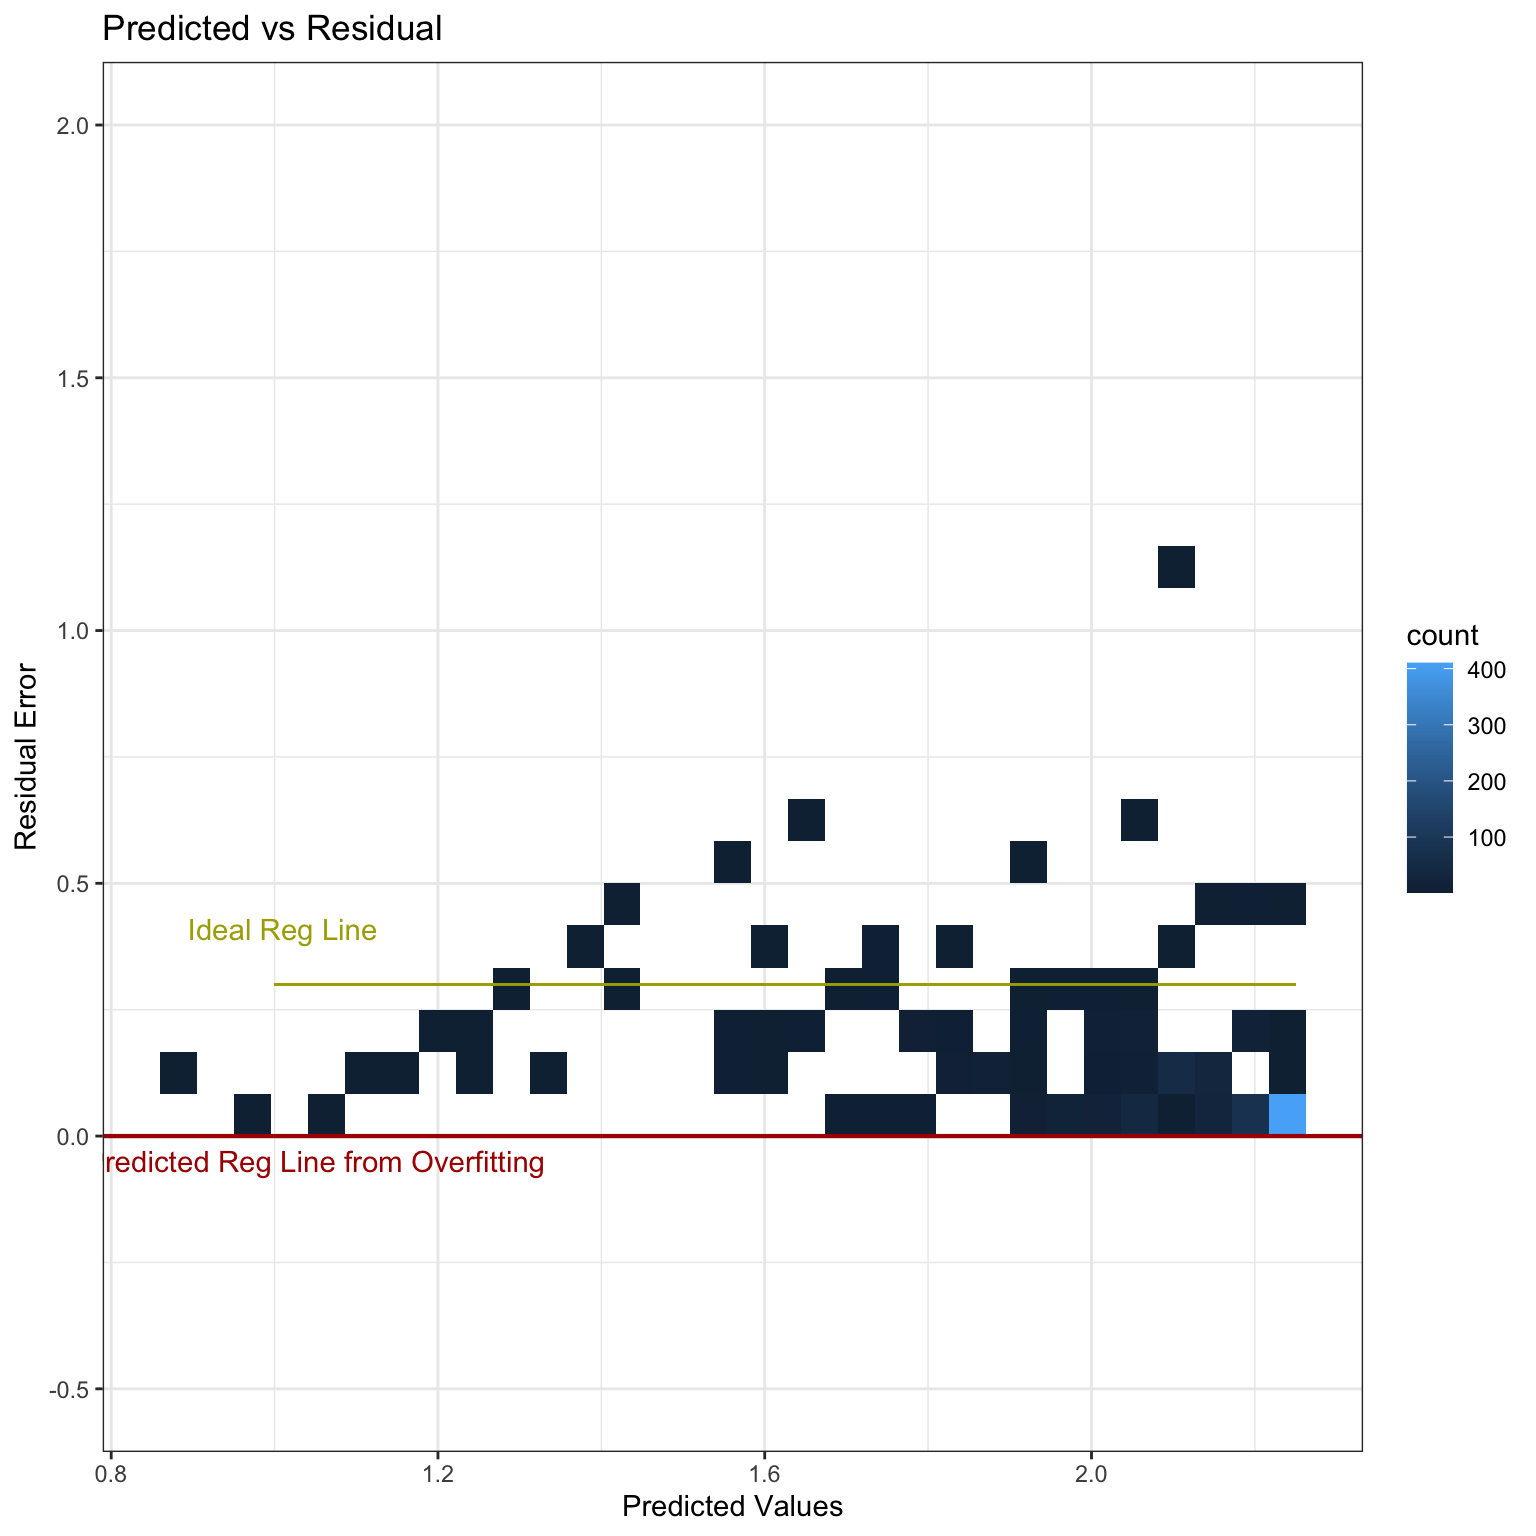
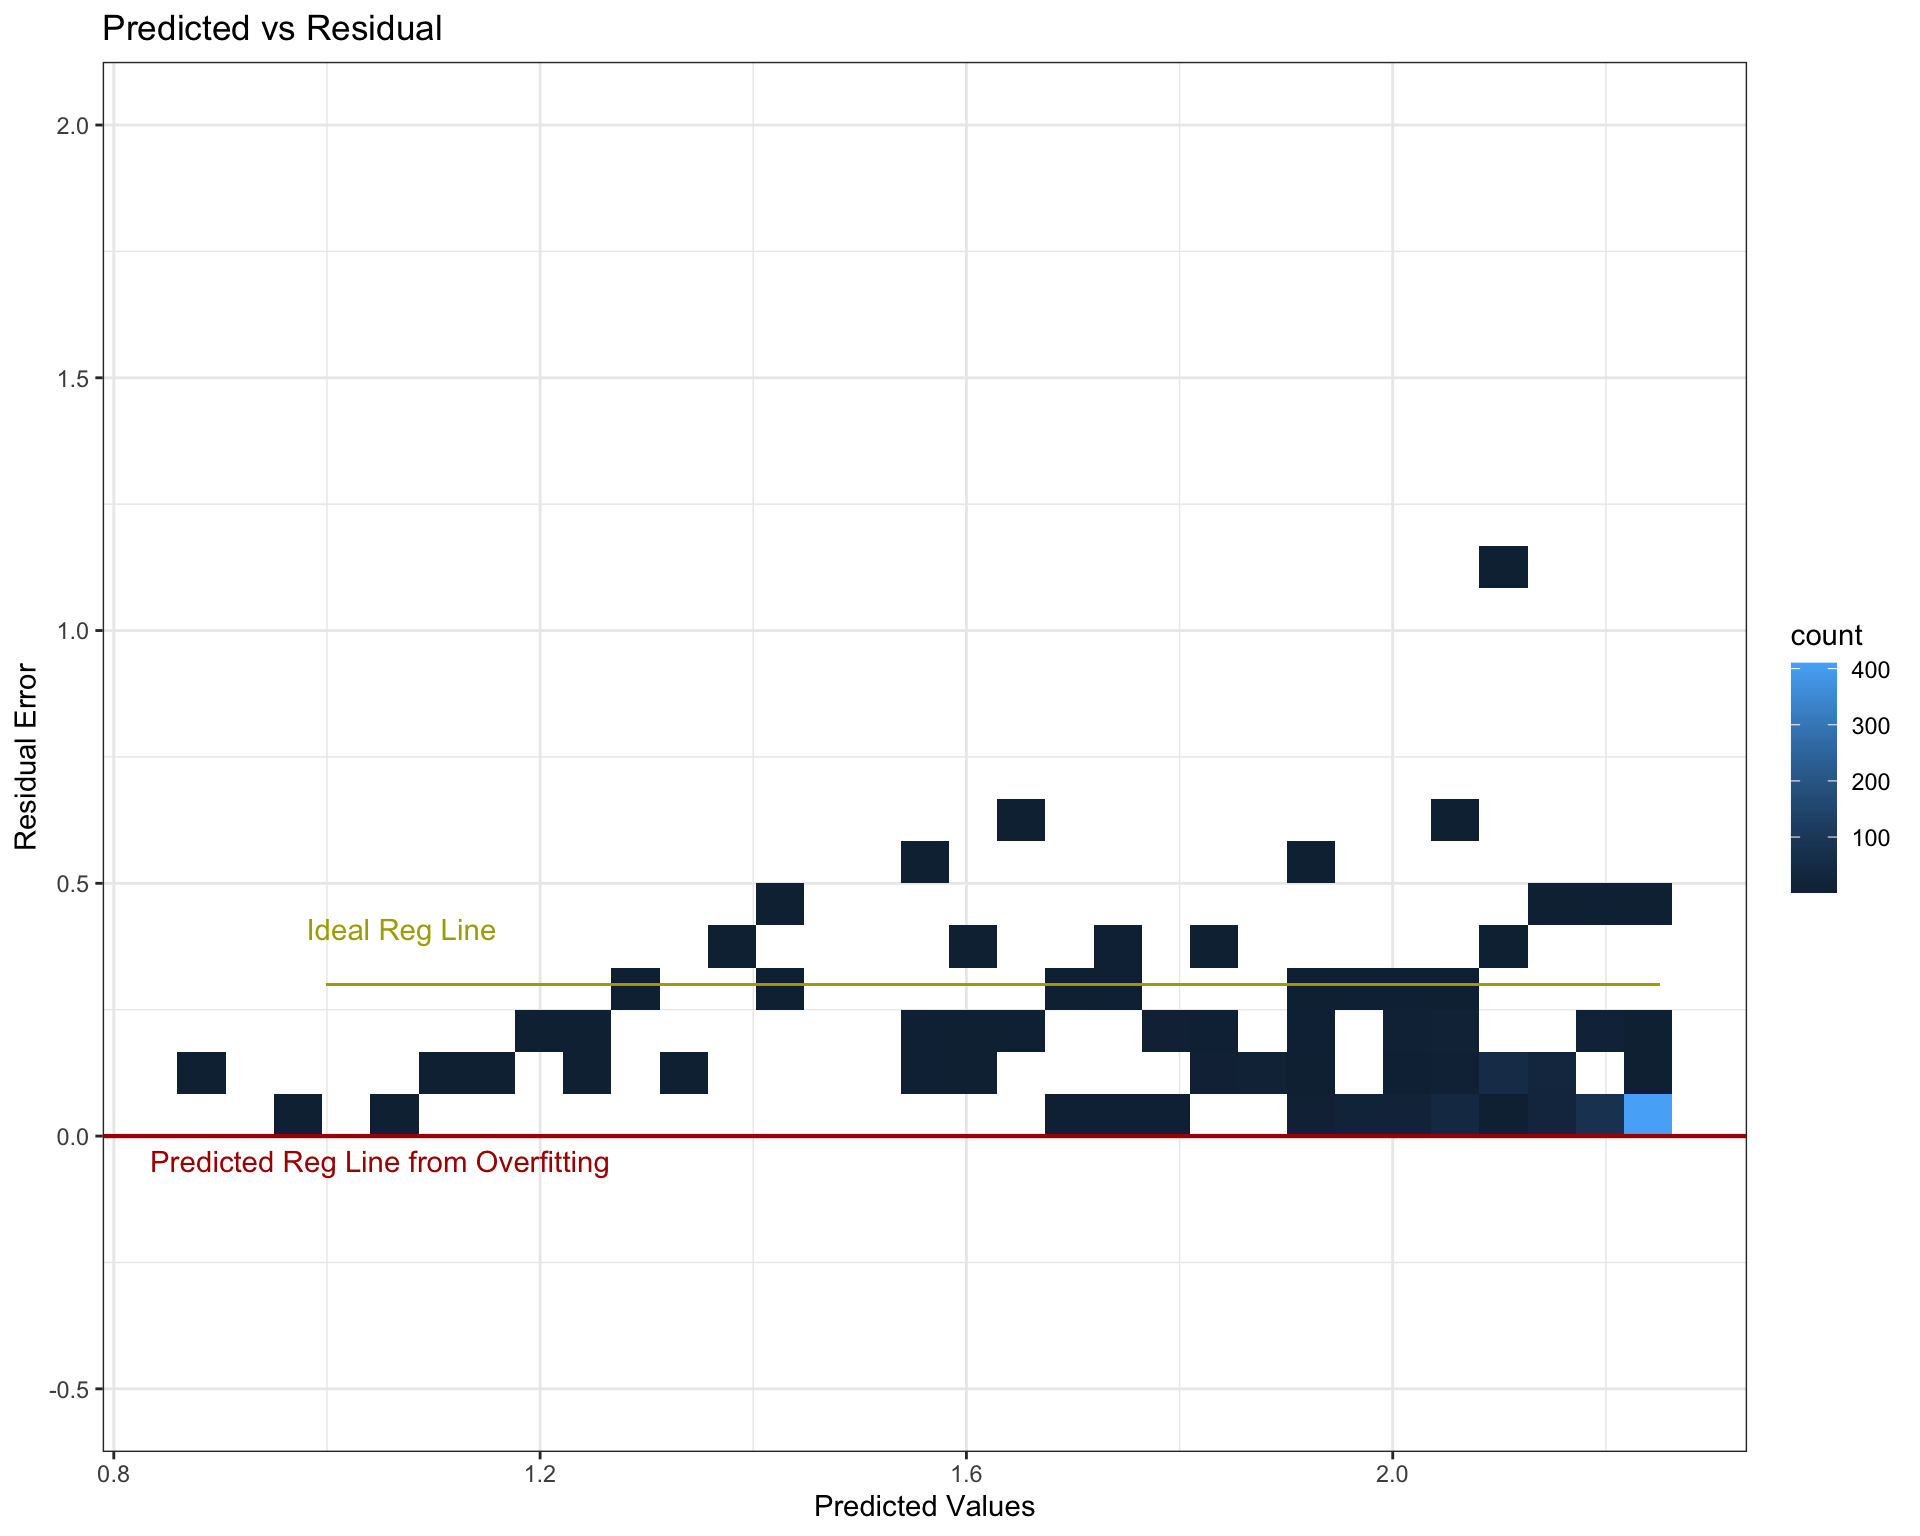
v 0.1.1 patch

diff --git a/docs/ptsatisfaction.html b/docs/ptsatisfaction.html
@@ -550,20 +550,10 @@ Tukey test              0.3667           0.7138</code></pre>
 <h4 class="anchored" data-anchor-id="predicted-vs-residuals">Predicted vs Residuals</h4>
 <p>The first plot is a density bin plot where the x axis are the predicted values and the y axis are the residuals or how much the model was off by. Note that these units are not to scale with the original patient satisfaction scores since the data was transformed for model compatibility. The red line indicates where the error (and data) should be centered. Robust models, and the goal of optimization in the OLS regression, is to fit a line on a cloud of data such that the residual error is zero (if predicted and actual values are the same, the model is 100% accurate and residuals equal zero). This is idealistic and impractical, but nevertheless is what’s being optimized. The red line sits beneath all data points, indicative of severe over fitting. For all patients, the model over predicts patient satisfaction and most likely will for future data sets. The fully optimized estimated regression line most likely runs somewhere where the yellow line is. Not only would the model be more balanced in regard to variance-bias, residual normality is the underlying assumption for OLS normality.</p>
 <div class="cell">
-<div class="sourceCode cell-code" id="cb18"><pre class="sourceCode r code-with-copy"><code class="sourceCode r"><span id="cb18-1"><a href="#cb18-1" aria-hidden="true" tabindex="-1"></a>test_table <span class="sc">%&gt;%</span></span>
-<span id="cb18-2"><a href="#cb18-2" aria-hidden="true" tabindex="-1"></a>  <span class="fu">ggplot</span>()<span class="sc">+</span></span>
-<span id="cb18-3"><a href="#cb18-3" aria-hidden="true" tabindex="-1"></a>  <span class="fu">geom_bin_2d</span>(<span class="fu">aes</span>(<span class="at">x=</span>fittedtest, <span class="at">y =</span> residtest))<span class="sc">+</span></span>
-<span id="cb18-4"><a href="#cb18-4" aria-hidden="true" tabindex="-1"></a>  <span class="fu">scale_y_continuous</span>(<span class="at">limits=</span><span class="fu">c</span>(<span class="sc">-</span>.<span class="dv">5</span>,<span class="dv">2</span>))<span class="sc">+</span></span>
-<span id="cb18-5"><a href="#cb18-5" aria-hidden="true" tabindex="-1"></a>  <span class="fu">geom_hline</span>(<span class="fu">aes</span>(<span class="at">yintercept =</span> <span class="dv">0</span>), <span class="at">color =</span> <span class="st">"#AA0000"</span>, <span class="at">linewidth =</span> .<span class="dv">75</span>)<span class="sc">+</span></span>
-<span id="cb18-6"><a href="#cb18-6" aria-hidden="true" tabindex="-1"></a>  <span class="fu">geom_segment</span>(<span class="at">y =</span> .<span class="dv">3</span>, <span class="at">x =</span> <span class="dv">1</span>, <span class="at">xend =</span> <span class="fl">2.25</span>, <span class="at">color =</span> <span class="st">"#AAAA00"</span>, <span class="at">linewidth =</span> .<span class="dv">25</span>) <span class="sc">+</span></span>
-<span id="cb18-7"><a href="#cb18-7" aria-hidden="true" tabindex="-1"></a>  <span class="fu">annotate</span>(<span class="st">"text"</span>, <span class="at">label =</span> <span class="st">"Ideal Reg Line"</span>, <span class="at">x =</span> <span class="fl">1.01</span>,<span class="at">y=</span>.<span class="dv">41</span>, <span class="at">color =</span> <span class="st">"#AAAA00"</span>)<span class="sc">+</span></span>
-<span id="cb18-8"><a href="#cb18-8" aria-hidden="true" tabindex="-1"></a>  <span class="fu">annotate</span>(<span class="st">"text"</span>, <span class="at">label =</span> <span class="st">"Predicted Reg Line from Overfitting"</span>, <span class="at">x =</span> <span class="fl">1.05</span>,<span class="at">y=</span><span class="sc">-</span>.<span class="dv">05</span>, <span class="at">color =</span> <span class="st">"#AA0000"</span>  )<span class="sc">+</span></span>
-<span id="cb18-9"><a href="#cb18-9" aria-hidden="true" tabindex="-1"></a>  <span class="fu">labs</span>(<span class="at">x=</span><span class="st">"Predicted Values"</span>, <span class="at">y =</span> <span class="st">"Residual Error"</span>, <span class="at">title =</span> <span class="st">"Predicted vs Residual"</span>)<span class="sc">+</span></span>
-<span id="cb18-10"><a href="#cb18-10" aria-hidden="true" tabindex="-1"></a>  <span class="fu">theme_bw</span>()</span></code><button title="Copy to Clipboard" class="code-copy-button"><i class="bi"></i></button></pre></div>
 <div class="cell-output-display">
 <div>
 <figure class="figure">
-<p><img src="ptsatisfaction_files/figure-html/unnamed-chunk-17-1.png" class="img-fluid figure-img" width="768"></p>
+<p><img src="ptsatisfaction_files/figure-html/unnamed-chunk-17-1.png" class="img-fluid figure-img" width="960"></p>
 </figure>
 </div>
 </div>
